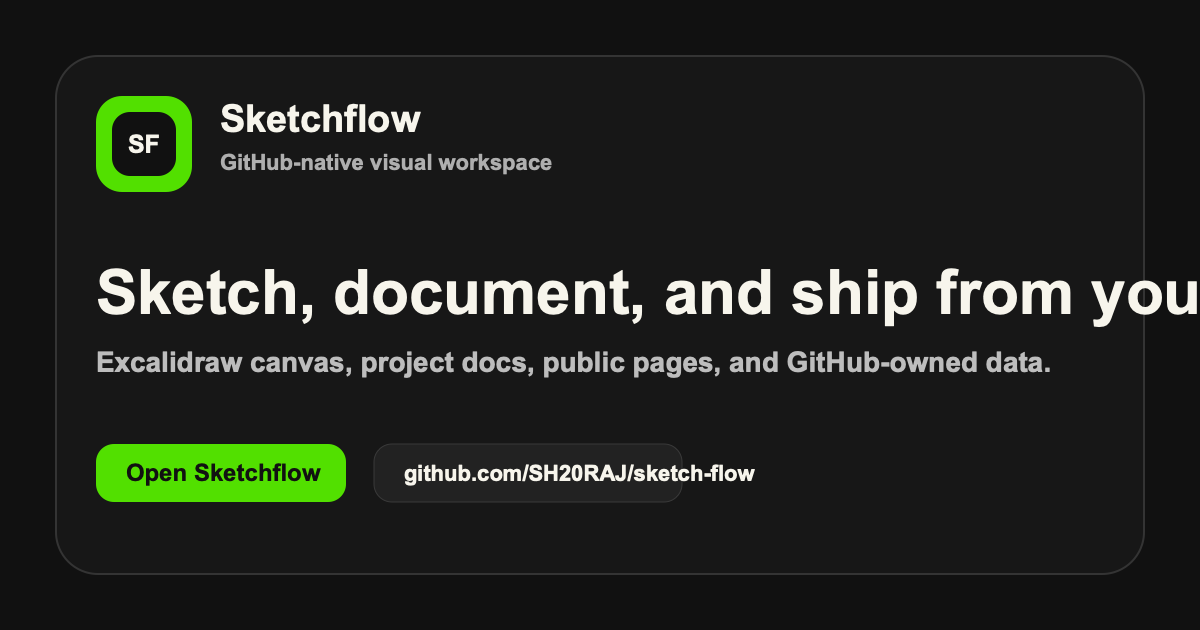
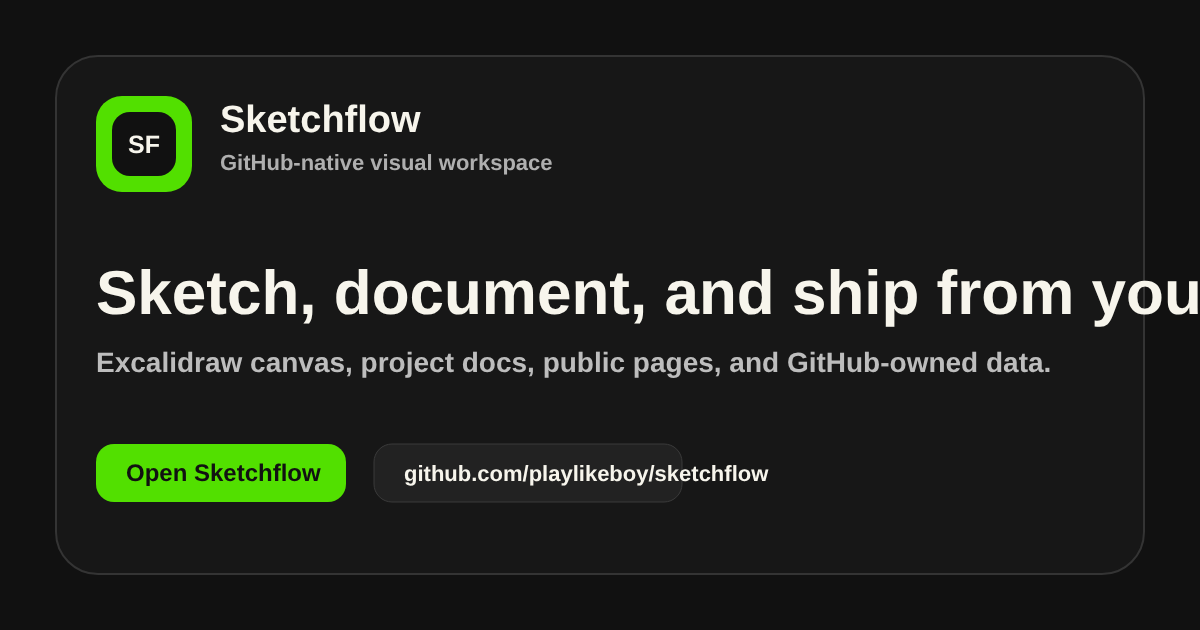
chore: repo hygiene for the canonical playlikeboy/sketchflow repo
Remove prompt notes, local agent tool config and unused starter assets,
point links at the canonical repo, drop the unused date-fns dependency,
and typecheck tests with @types/bun.

Claude-Session: https://claude.ai/code/session_01B4Nhkip7LrELb1Wdp4mFn6

diff --git a/src/components/home-client.tsx b/src/components/home-client.tsx
@@ -150,7 +150,7 @@ export function HomeClient() {
 							Sign in
 						</button>
 						<Link
-							href="https://github.com/SH20RAJ/sketch-flow"
+							href="https://github.com/playlikeboy/sketchflow"
 							target="_blank"
 							className="btn-3d btn-3d--secondary size-9 p-0 cursor-pointer flex items-center justify-center"
 							aria-label="Sketchflow on GitHub"
@@ -438,7 +438,7 @@ export function HomeClient() {
 					<div className="flex items-center gap-3">
 						<span>Sketchflow · Open Source GitHub-Native Workspace</span>
 						<Link
-							href="https://github.com/SH20RAJ/sketch-flow"
+							href="https://github.com/playlikeboy/sketchflow"
 							target="_blank"
 							className="inline-flex items-center gap-1 rounded-md border border-amber-500/30 bg-amber-500/10 px-2 py-0.5 text-[11px] font-extrabold text-amber-500 hover:bg-amber-500/20 transition-colors"
 						>
@@ -452,7 +452,7 @@ export function HomeClient() {
 						<Link href="/app" className="hover:text-foreground transition-colors">
 							Open app
 						</Link>
-						<Link href="https://github.com/SH20RAJ/sketch-flow" target="_blank" className="hover:text-foreground transition-colors">
+						<Link href="https://github.com/playlikeboy/sketchflow" target="_blank" className="hover:text-foreground transition-colors">
 							GitHub
 						</Link>
 						<Link href="/help" className="hover:text-foreground transition-colors">

diff --git a/src/app/help/page.tsx b/src/app/help/page.tsx
@@ -64,7 +64,7 @@ export default function HelpPage() {
 					<BrandMark href="/" subtitle="Help" />
 					<div className="flex items-center gap-2">
 						<Button variant="outline" size="sm" asChild>
-							<Link href="https://github.com/SH20RAJ/sketch-flow" target="_blank">
+							<Link href="https://github.com/playlikeboy/sketchflow" target="_blank">
 								<GitBranch className="size-4" />
 								GitHub
 							</Link>
@@ -132,7 +132,7 @@ export default function HelpPage() {
 						</div>
 						<Button variant="outline" asChild>
 							<Link
-								href="https://github.com/SH20RAJ/sketch-flow/blob/main/docs/project-versioning-offline-plan.md"
+								href="https://github.com/playlikeboy/sketchflow/blob/main/docs/project-versioning-offline-plan.md"
 								target="_blank"
 							>
 								Read plan

diff --git a/src/components/app-shell.tsx b/src/components/app-shell.tsx
@@ -203,7 +203,7 @@ function AppSidebar({
       <SidebarFooter className="p-3 border-t-2 border-sidebar-border">
         <div className="flex items-center gap-1 group-data-[collapsible=icon]:flex-col group-data-[collapsible=icon]:gap-2">
           <Button variant="ghost" size="icon" className="size-8 shrink-0 text-sidebar-foreground/60 hover:text-[#58CC02]" asChild>
-            <Link href="https://github.com/SH20RAJ/sketch-flow" target="_blank" aria-label="Contribute on GitHub">
+            <Link href="https://github.com/playlikeboy/sketchflow" target="_blank" aria-label="Contribute on GitHub">
               <GitBranch className="size-4" />
             </Link>
           </Button>

diff --git a/next.config.ts b/next.config.ts
@@ -22,7 +22,7 @@ const nextConfig: NextConfig = {
 		];
 	},
 	experimental: {
-		optimizePackageImports: ["lucide-react", "date-fns"],
+		optimizePackageImports: ["lucide-react"],
 	},
 };
 
